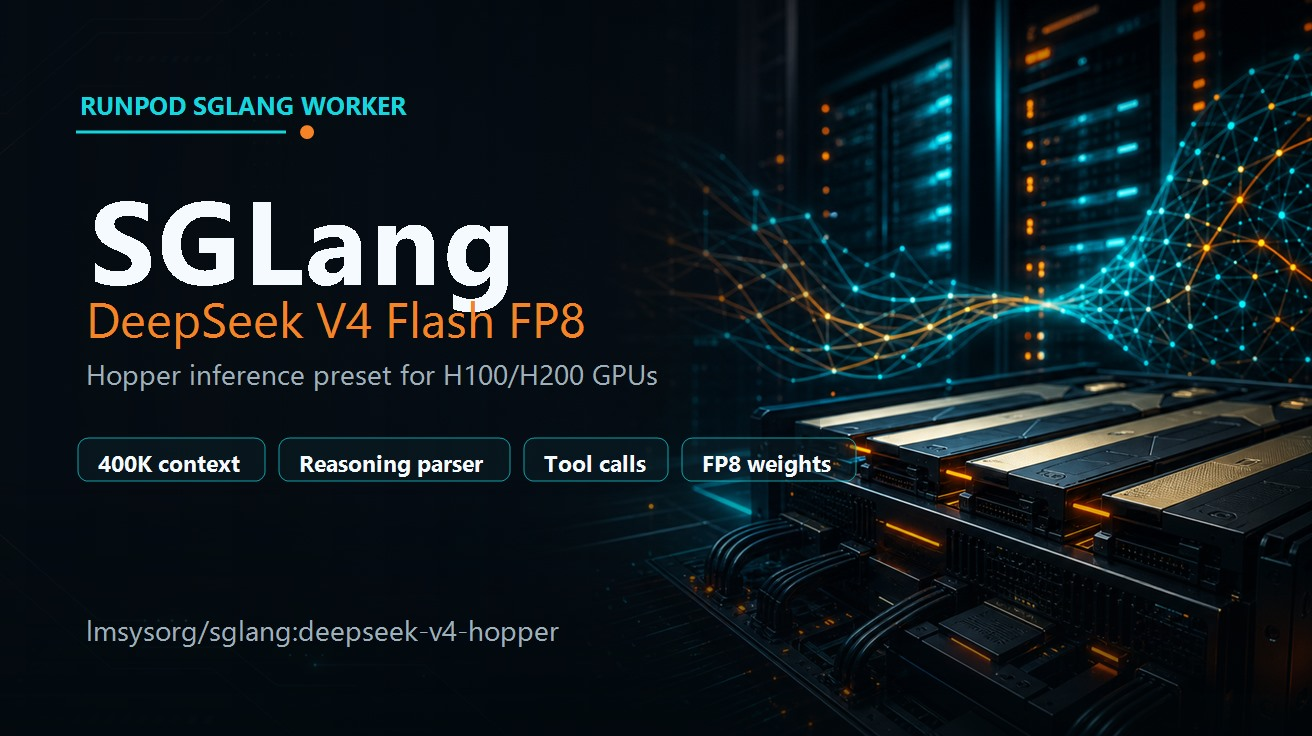
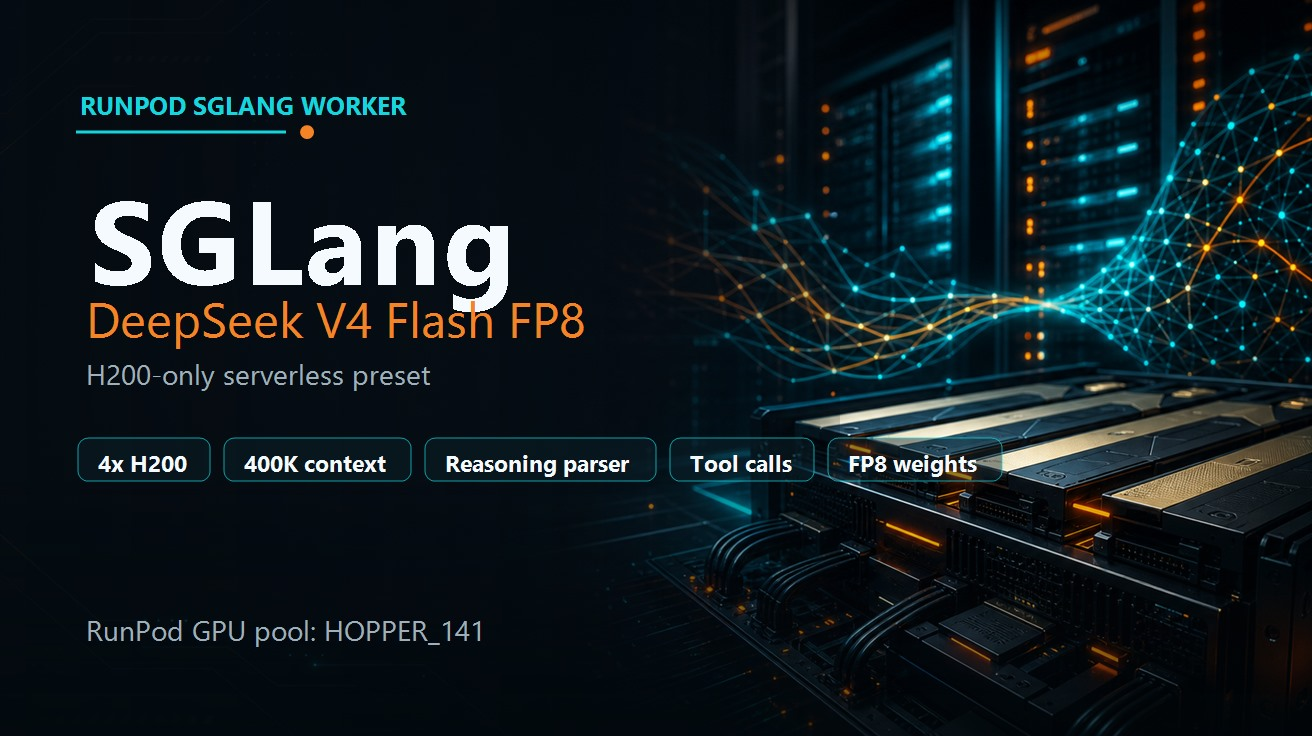
h200 serve

Changed region(s): [[0.0625, 0.5625, 0.7812, 0.6562], [0.0625, 0.5, 0.5, 0.5312], [0.0625, 0.8438, 0.4375, 0.875]]

diff --git a/engine.py b/engine.py
@@ -59,7 +59,7 @@ class SGlangEngine:
         return not _is_disabled(self.preset)
 
     def _detect_deepseek_v4_hardware(self):
-        configured = os.getenv("DEEPSEEK_V4_HARDWARE", "auto").strip().lower()
+        configured = os.getenv("DEEPSEEK_V4_HARDWARE", "h200").strip().lower()
         if configured in ("h100", "h200"):
             return configured
 

diff --git a/README.md b/README.md
@@ -1,6 +1,6 @@
 ![SGLang worker banner](https://cpjrphpz3t5wbwfe.public.blob.vercel-storage.com/worker-sglang_banner-A9R2vQzvSUmLvqMZ8MzehfZtRDxHJR.jpeg)
 
-Run LLMs and VLMs using [SGLang](https://docs.sglang.ai). By default this worker starts a Hopper FP8 preset for [sgl-project/DeepSeek-V4-Flash-FP8](https://huggingface.co/sgl-project/DeepSeek-V4-Flash-FP8).
+Run LLMs and VLMs using [SGLang](https://docs.sglang.ai). By default this worker starts an H200-only FP8 preset for [sgl-project/DeepSeek-V4-Flash-FP8](https://huggingface.co/sgl-project/DeepSeek-V4-Flash-FP8).
 
 ---
 
@@ -15,7 +15,7 @@ All behaviour is controlled through environment variables:
 | Environment Variable              | Description                                       | Default                               | Options                                                                                   |
 | --------------------------------- | ------------------------------------------------- | ------------------------------------- | ----------------------------------------------------------------------------------------- |
 | `SGLANG_PRESET`                   | Launch preset                                     | "deepseek-v4-flash-fp8"               | "deepseek-v4-flash-fp8", "none"                                                           |
-| `DEEPSEEK_V4_HARDWARE`            | Hardware target for the DeepSeek V4 FP8 preset   | "auto"                                | "auto", "h200", "h100"                                                                    |
+| `DEEPSEEK_V4_HARDWARE`            | Hardware target for the DeepSeek V4 FP8 preset   | "h200"                                | "h200" in the RunPod Hub template                                                         |
 | `DEEPSEEK_V4_RECIPE`              | DeepSeek V4 serving recipe                        | "balanced"                            | "low-latency", "balanced", "max-throughput"                                               |
 | `MODEL_NAME`                      | Hugging Face model name or local path             | "sgl-project/DeepSeek-V4-Flash-FP8"   | Hugging Face repo ID or local folder path                                                 |
 | `HF_TOKEN`                        | HuggingFace access token for gated/private models |                                       | Your HuggingFace access token                                                             |
@@ -34,14 +34,14 @@ All behaviour is controlled through environment variables:
 | `MAX_PREFILL_TOKENS`              | Max tokens in prefill batch                       | 16384                                 |                                                                                           |
 | `SCHEDULE_POLICY`                 | Request scheduling policy                         | "fcfs"                                | "lpm", "random", "fcfs", "dfs-weight"                                                     |
 | `SCHEDULE_CONSERVATIVENESS`       | Conservativeness of schedule policy               | 1.0                                   |                                                                                           |
-| `TENSOR_PARALLEL_SIZE` / `TP`     | Tensor parallelism size                           | H200: 4, H100: 8 in preset            |                                                                                           |
+| `TENSOR_PARALLEL_SIZE` / `TP`     | Tensor parallelism size                           | H200: 4 in preset                     |                                                                                           |
 | `STREAM_INTERVAL`                 | Streaming interval in token length                | 1                                     |                                                                                           |
 | `RANDOM_SEED`                     | Random seed                                       |                                       |                                                                                           |
 | `LOG_LEVEL`                       | Logging level for all loggers                     | "info"                                |                                                                                           |
 | `LOG_LEVEL_HTTP`                  | Logging level for HTTP server                     |                                       |                                                                                           |
 | `API_KEY`                         | API key for the server                            |                                       |                                                                                           |
 | `FILE_STORAGE_PATH`               | Directory for storing uploaded/generated files    | "sglang_storage"                      |                                                                                           |
-| `DATA_PARALLEL_SIZE` / `DP`       | Data parallelism size                             | H200: 4, H100: 8 in balanced preset   |                                                                                           |
+| `DATA_PARALLEL_SIZE` / `DP`       | Data parallelism size                             | H200: 4 in balanced preset            |                                                                                           |
 | `MOE_A2A_BACKEND`                 | MoE all-to-all backend                            | "deepep" in balanced/max-throughput   | "deepep", "none"                                                                          |
 | `DEEPEP_CONFIG`                   | JSON passed to `--deepep-config`                  | DeepEP 96-SM config in preset         |                                                                                           |
 | `CUDA_GRAPH_MAX_BS`               | CUDA graph max batch size                         | H200 balanced: 128                    |                                                                                           |
@@ -67,15 +67,15 @@ All behaviour is controlled through environment variables:
 
 ## DeepSeek V4 Flash FP8 Preset
 
-The default `SGLANG_PRESET=deepseek-v4-flash-fp8` targets Hopper GPUs with the SGLang Docker image `lmsysorg/sglang:deepseek-v4-hopper`.
+The default `SGLANG_PRESET=deepseek-v4-flash-fp8` targets 4x H200 GPUs with the SGLang Docker image `lmsysorg/sglang:deepseek-v4-hopper`.
 
 - Model path: `sgl-project/DeepSeek-V4-Flash-FP8`
 - Served model name: `deepseek-ai/DeepSeek-V4-Flash`
 - Default recipe: `balanced`
 - Context length: `400000`
+- RunPod Hub GPU pool: `HOPPER_141`
+- RunPod Hub GPU count: `4`
 - H200 default: `--tp 4 --dp 4 --enable-dp-attention`
-- H100 default: `--tp 8 --dp 8 --enable-dp-attention`
-- RunPod Hub defaults to 4x H200. For H100, use 8 GPUs or override `TP`/`DP` to match your topology.
 - Tool parser: `deepseekv4`
 - Reasoning parser: `deepseek-v4`
 
